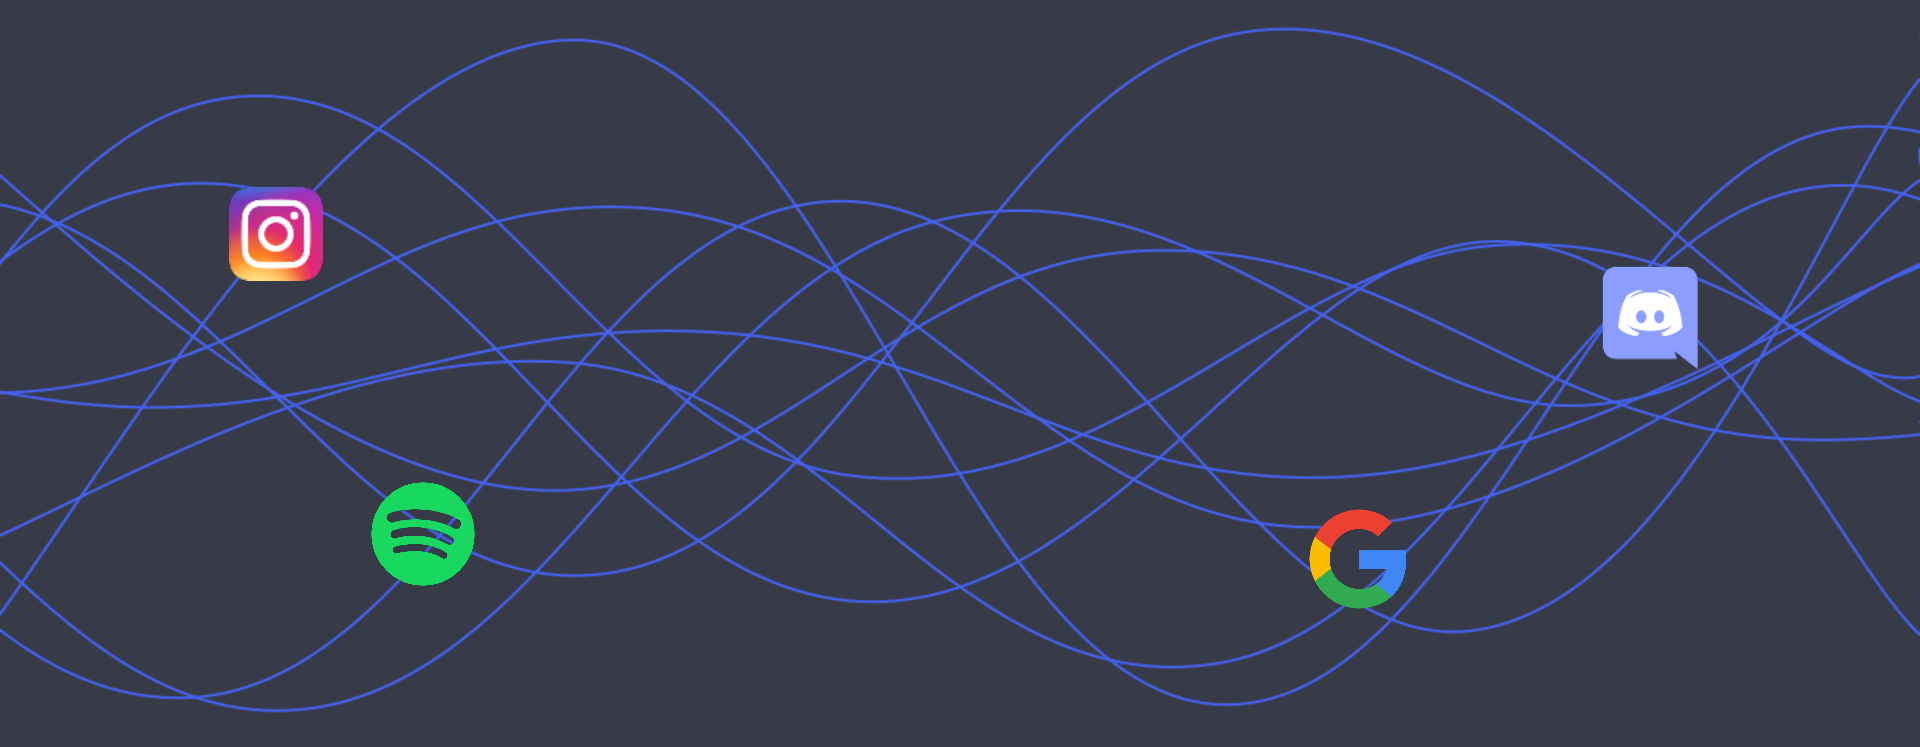
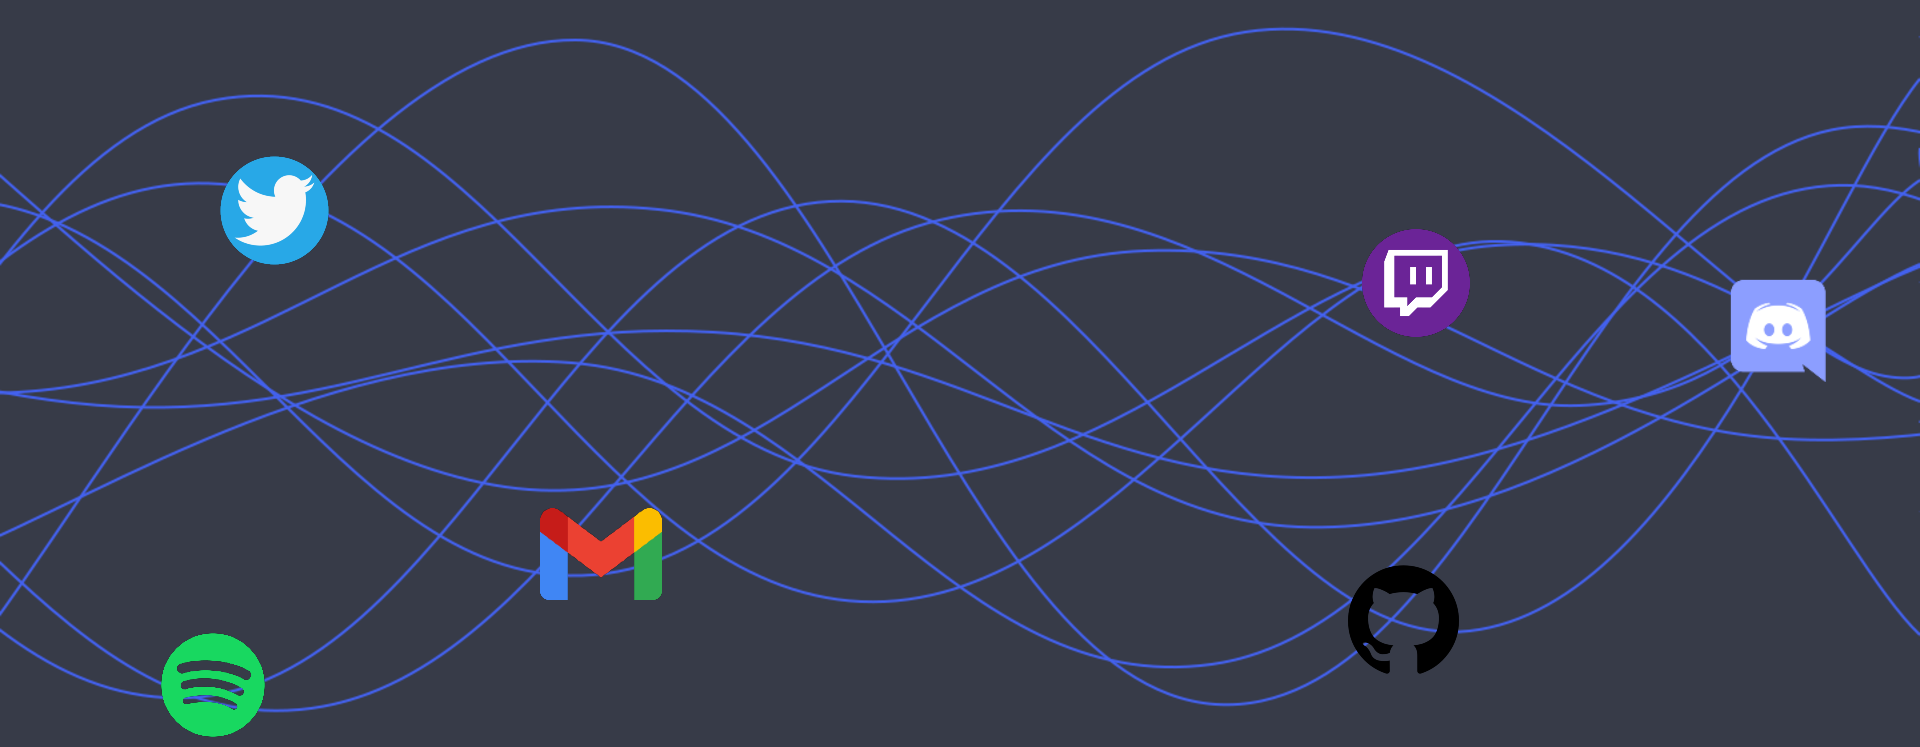
[EDIT]: Change Instagram by twitch

diff --git a/area/src/components/servicesbar/index.js b/area/src/components/servicesbar/index.js
@@ -3,7 +3,7 @@ import { Icon } from '@iconify/react';
 import { ServicesBarContainer, ServicesBarWrapper, IconBox, ButtonConnect, ServicesName, LeftColumn, RectangleContener } from './servicesbarElements';
 import ButtonBox from '../buttonBlock';
 import { useGetAction } from '../../api/apiServicesPage';
-import { useSpotifyConnect, useSpotifyConnected, useDiscordConnect, useDiscordConnected, useInstagramConnect, useInstagramConnected, useGmailConnect, useGmailConnected, useTwitterConnect, useTwitterConnected, useGithubConnect, useGithubConnected } from '../../api/apiSettingsPage';
+import { useSpotifyConnect, useSpotifyConnected, useDiscordConnect, useDiscordConnected, useTwitchConnect, useTwitchConnected, useGmailConnect, useGmailConnected, useTwitterConnect, useTwitterConnected, useGithubConnect, useGithubConnected } from '../../api/apiSettingsPage';
 
 const Servicesbar = () => {
   const [isOpen] = useState(true);
@@ -15,8 +15,8 @@ const Servicesbar = () => {
   const isSpotifyConnected = useSpotifyConnected();
   const handleDiscordConnect = useDiscordConnect()
   const isDiscordConnected = useDiscordConnected()
-  const handleInstagramConnect = useInstagramConnect();
-  const isInstagramConnected = useInstagramConnected();
+  const handleTwitchConnect = useTwitchConnect();
+  const isTwitchConnected = useTwitchConnected();
   const handleGmailConnect = useGmailConnect();
   const isGmailConnected = useGmailConnected();
   const handleTwitterConnect = useTwitterConnect();
@@ -27,7 +27,7 @@ const Servicesbar = () => {
     useEffect(() => {
       isSpotifyConnected.mutate();
       isDiscordConnected.mutate();
-      isInstagramConnected.mutate();
+      isTwitchConnected.mutate();
       isGmailConnected.mutate();
       isTwitterConnected.mutate();
       isGithubConnected.mutate();
@@ -44,9 +44,9 @@ const Servicesbar = () => {
           sessionStorage.setItem("serviceToConnect", "discord")
           handleDiscordConnect.mutate(JSON.stringify({redirect_uri: "http://localhost:8081/connectServices"}))
           break;
-        case "instagram":
-          sessionStorage.setItem("serviceToConnect", "instagram")
-          handleInstagramConnect.mutate(JSON.stringify({redirect_uri: "http://localhost:8081/connectServices"}))
+        case "twitch":
+          sessionStorage.setItem("serviceToConnect", "twitch")
+          handleTwitchConnect.mutate(JSON.stringify({redirect_uri: "http://localhost:8081/connectServices"}))
         break;
         case "gmail":
           sessionStorage.setItem("serviceToConnect", "gmail")
@@ -72,7 +72,7 @@ const Servicesbar = () => {
   const services = [
     { nom: 'discord',   nombre: 0, info: [], action: [], name: [], nbrBox: []},
     { nom: 'spotify',   nombre: 0, info: [], action: [], name: [], nbrBox: [2,0]},
-    { nom: 'instagram', nombre: 0, info: [], action: [], name: [], nbrBox: []},
+    { nom: 'twitch', nombre: 0, info: [], action: [], name: [], nbrBox: []},
     { nom: 'gmail',    nombre: 0, info: [], action: [], name: [], nbrBox: []},
     { nom: 'twitter',   nombre: 0, info: [], action: [], name: [], nbrBox: []},
     { nom: 'github',    nombre: 0, info: [], action: [], name: [], nbrBox: []},
@@ -90,8 +90,8 @@ const Servicesbar = () => {
           return true;
         else
           return false;
-      case "instagram":
-        if (isInstagramConnected.isSuccess && isInstagramConnected.data.data.connected)
+      case "twitch":
+        if (isTwitchConnected.isSuccess && isTwitchConnected.data.data.connected)
           return true;
         else
           return false;
@@ -132,7 +132,7 @@ const Servicesbar = () => {
         case "spotify":
           fillservices(1, i);
           break;
-        case "instagram":
+        case "twitch":
           fillservices(2, i);
           break;
         case "gmail":
@@ -187,7 +187,7 @@ const Servicesbar = () => {
         return "#7289da";
       case "spotify":
         return "#1db954";
-      case "instagram":
+      case "twitch":
         return "#e1306c";
       case "gmail":
         return "#EA4335";
@@ -206,7 +206,7 @@ const Servicesbar = () => {
         return "#5470d6";
       case "spotify":
         return "#10a143";
-      case "instagram":
+      case "twitch":
         return "#c2134f";
       case "gmail":
         return "#d92516";
@@ -236,10 +236,10 @@ const Servicesbar = () => {
               <Icon icon="logos:spotify-icon" width="75" height="75" opacity="0.5"> </Icon> 
             }
           </IconBox>
-          <IconBox onClick={() => handleClick("instagram")}>
-            {isInstagramConnected.isSuccess && isInstagramConnected.data.data.connected ?
-              <Icon icon="skill-icons:instagram" width="75" height="75" > </Icon> :
-              <Icon icon="skill-icons:instagram" width="75" height="75" opacity="0.5" > </Icon> 
+          <IconBox onClick={() => handleClick("twitch")}>
+            {isTwitchConnected.isSuccess && isTwitchConnected.data.data.connected ?
+              <Icon icon="logos:twitch" width="75" height="75" > </Icon> :
+              <Icon icon="logos:twitch" width="75" height="75" opacity="0.5" > </Icon> 
             }
           </IconBox>
           <IconBox onClick={() => handleClick("gmail")}>

diff --git a/area/src/components/doc/index.js b/area/src/components/doc/index.js
@@ -1,11 +1,11 @@
 import React, { useState } from 'react'
-import { BgColor, ContainerLeft, DiscordBox, InstagramBox, IntroText, SpotifyBox, BoxContentLeft, ContainerRight, BoxContentRight, GoogleBox, TwitterBox, GithubBox } from './docElements'
+import { BgColor, ContainerLeft, DiscordBox, TwitchBox, IntroText, SpotifyBox, BoxContentLeft, ContainerRight, BoxContentRight, GoogleBox, TwitterBox, GithubBox } from './docElements'
 import { Icon } from '@iconify/react';
 
 const Doc = () => {
   const [discordOpen, setDiscordOpen] = useState(false);
   const [spotifyOpen, setSpotifyOpen] = useState(false);
-  const [instagramOpen, setInstagramOpen] = useState(false);
+  const [twitchOpen, setTwitchOpen] = useState(false);
   const [googleOpen, setGoogleOpen] = useState(false);
   const [twitterOpen, setTwitterOpen] = useState(false);
   const [githubOpen, setGithubOpen] = useState(false);
@@ -13,17 +13,17 @@ const Doc = () => {
   const toggleDiscordOpen = () => {
     setDiscordOpen(!discordOpen);
     setSpotifyOpen(false);
-    setInstagramOpen(false);
+    setTwitchOpen(false);
   };
   
   const toggleSpotifyOpen = () => {
     setSpotifyOpen(!spotifyOpen);
     setDiscordOpen(false);
-    setInstagramOpen(false);
+    setTwitchOpen(false);
   };
   
-  const toggleInstagramOpen = () => {
-    setInstagramOpen(!instagramOpen);
+  const toggleTwitchOpen = () => {
+    setTwitchOpen(!twitchOpen);
     setDiscordOpen(false);
     setSpotifyOpen(false);
   };
@@ -59,10 +59,10 @@ const Doc = () => {
           <Icon icon="logos:spotify-icon" width="100" height="100" />
         </SpotifyBox>
         {spotifyOpen && <BoxContentLeft background="#10a143">Spotify content here</BoxContentLeft>}
-        <InstagramBox onClick={toggleInstagramOpen}>
-          <Icon icon="skill-icons:instagram" width="100" height="100" />
-        </InstagramBox>
-        {instagramOpen && <BoxContentLeft background="#c2134f">Instragram content here</BoxContentLeft>}
+        <TwitchBox onClick={toggleTwitchOpen}>
+          <Icon icon="mdi:twitch" width="130" height="130" />
+        </TwitchBox>
+        {twitchOpen && <BoxContentLeft background="#c2134f">Twitch content here</BoxContentLeft>}
       </ContainerLeft>
       <ContainerRight>
         <GoogleBox onClick={toggleGoogleOpen}> 

diff --git a/area/src/components/settings/index.js b/area/src/components/settings/index.js
@@ -1,22 +1,22 @@
 import React, { useEffect, useState } from 'react'
 import { Rect, SettingsRect, Connect, Connected } from './settingsElements'
 import { Icon } from '@iconify/react';
-import { useSpotifyConnect, useSpotifyConnected, useDiscordConnect, useDiscordConnected, useInstagramConnect, useInstagramConnected, useGithubConnect, useGithubConnected } from '../../api/apiSettingsPage';
+import { useSpotifyConnect, useSpotifyConnected, useDiscordConnect, useDiscordConnected, useTwitchConnect, useTwitchConnected, useGithubConnect, useGithubConnected } from '../../api/apiSettingsPage';
 
 const Settings = () => {
   const handleSpotifyConnect = useSpotifyConnect();
   const isSpotifyConnected = useSpotifyConnected();
   const handleDiscordConnect = useDiscordConnect();
   const isDiscordConnected = useDiscordConnected();
-  const handleInstagramConnect = useInstagramConnect();
-  const isInstagramConnected = useInstagramConnected();
+  const handleTwitchConnect = useTwitchConnect();
+  const isTwitchConnected = useTwitchConnected();
   const handleGithubConnect = useGithubConnect();
   const isGithubConnected = useGithubConnected();
 
     useEffect(() => {
       isSpotifyConnected.mutate();
       isDiscordConnected.mutate();
-      isInstagramConnected.mutate();
+      isTwitchConnected.mutate();
     }, []);
 
     const handleConnectServices = (event) => {
@@ -43,7 +43,7 @@ const Settings = () => {
         <SettingsRect top="200px" height="600px" color="#D4D3DC" width="25%" left="15%" SettingsRect/>
         <Icon icon="skill-icons:discord" width="100" style={{ position: 'absolute', left: '18%', top: "250px" }}/>
         <Icon icon="logos:spotify-icon" width="100" style={{ position: 'absolute', left: '18%', top: "450px" }}/>
-        <Icon icon="skill-icons:instagram" width="100" style={{ position: 'absolute', left: '18%', top: "650px" }}/>
+        <Icon icon="skill-icons:twitch" width="100" style={{ position: 'absolute', left: '18%', top: "650px" }}/>
         {isDiscordConnected.isSuccess && isDiscordConnected.data.data.connected ?
           <Connected top="265px" left="25.5%" >Connected</Connected> :
           <Connect to="/" top="265px" left="26.5%" data-value="discord" onClick={handleConnectServices} >Connect</Connect>

diff --git a/area/src/api/apiSettingsPage.js b/area/src/api/apiSettingsPage.js
@@ -61,35 +61,35 @@ export const useDiscordAccess = () => {
 
 
 
-// INSTAGRAM :
+// TWITCH :
 
 
-const instagramConnected = async () => {
-  return await axios.post("/instagram/connected", JSON.stringify({token: sessionStorage.getItem("token")}))
+const twitchConnected = async () => {
+  return await axios.post("/twitch/connected", JSON.stringify({token: sessionStorage.getItem("token")}))
 }
 
-export const useInstagramConnected = () => {
-  return useMutation(instagramConnected)
+export const useTwitchConnected = () => {
+  return useMutation(twitchConnected)
 }
 
-const instagramConnect = async (data) => {
-  return await axios.post("/instagram/connect", data)
+const twitchConnect = async (data) => {
+  return await axios.post("/twitch/connect", data)
 }
 
-export const useInstagramConnect = () => {
-  return useMutation(instagramConnect, {
+export const useTwitchConnect = () => {
+  return useMutation(twitchConnect, {
     onSuccess: (data) => {
       window.location.replace(data.data.authorization_url)
     }
   })
 }
 
-const instagramAccess = async (data) => {
-  return await axios.post("/instagram/get_access_token", data)
+const twitchAccess = async (data) => {
+  return await axios.post("/twitch/get_access_token", data)
 }
 
-export const useInstagramAccess = () => {
-  return useMutation(instagramAccess)
+export const useTwitchAccess = () => {
+  return useMutation(twitchAccess)
 }
 
 

diff --git a/area/src/pages/ConnectServices.js b/area/src/pages/ConnectServices.js
@@ -1,12 +1,12 @@
 import React, { useEffect } from 'react'
 import { useNavigate, useSearchParams } from "react-router-dom"
-import { useSpotifyAccess, useDiscordAccess, useInstagramAccess, useGmailAccess, useTwitterAccess, useGithubAccess} from '../api/apiSettingsPage'
+import { useSpotifyAccess, useDiscordAccess, useTwitchAccess, useGmailAccess, useTwitterAccess, useGithubAccess} from '../api/apiSettingsPage'
 
 const ConnectServices = () => {
   const [params] = useSearchParams()
   const handleSpotifyAccess = useSpotifyAccess()
   const handleDiscordAccess = useDiscordAccess()
-  const handleInstagramAccess = useInstagramAccess()
+  const handleTwitchAccess = useTwitchAccess()
   const handleGmailAccess = useGmailAccess()
   const handleTwitterAccess = useTwitterAccess()
   const handleGithubAccess = useGithubAccess()
@@ -30,8 +30,8 @@ const ConnectServices = () => {
         redirect_uri: "http://localhost:8081/connectServices"
         }), {onSettled: () => {navigate("/home", {replace: true})}});
         break;
-      case "instagram":
-        handleInstagramAccess.mutate(JSON.stringify({
+      case "twitch":
+        handleTwitchAccess.mutate(JSON.stringify({
         state: params.get("state"),
         token: sessionStorage.getItem("token"),
         code: params.get("code"),

diff --git a/area/src/components/landing/index.js b/area/src/components/landing/index.js
@@ -59,8 +59,8 @@ const Landing = () => {
                 </a>
             </IconWrapper>
             <IconWrapper>
-                <a href="https://about.instagram.com/fr-fr" >
-                    <Icon icon="skill-icons:instagram" width="100" style={{ position: 'absolute', left: '43%', top: "320%" }} />
+                <a href="https://www.twitch.tv/p/fr-fr/about/" >
+                    <Icon icon="logos:twitch" width="100" style={{ position: 'absolute', left: '43%', top: "320%" }} />
                 </a>
             </IconWrapper>
             <IconWrapper>

diff --git a/area/src/components/doc/docElements.js b/area/src/components/doc/docElements.js
@@ -76,7 +76,7 @@ export const SpotifyBox = styled.div`
     }
 `;
 
-export const InstagramBox = styled.div`
+export const TwitchBox = styled.div`
     display: flex;
     justify-content: center;
     align-items: center;
